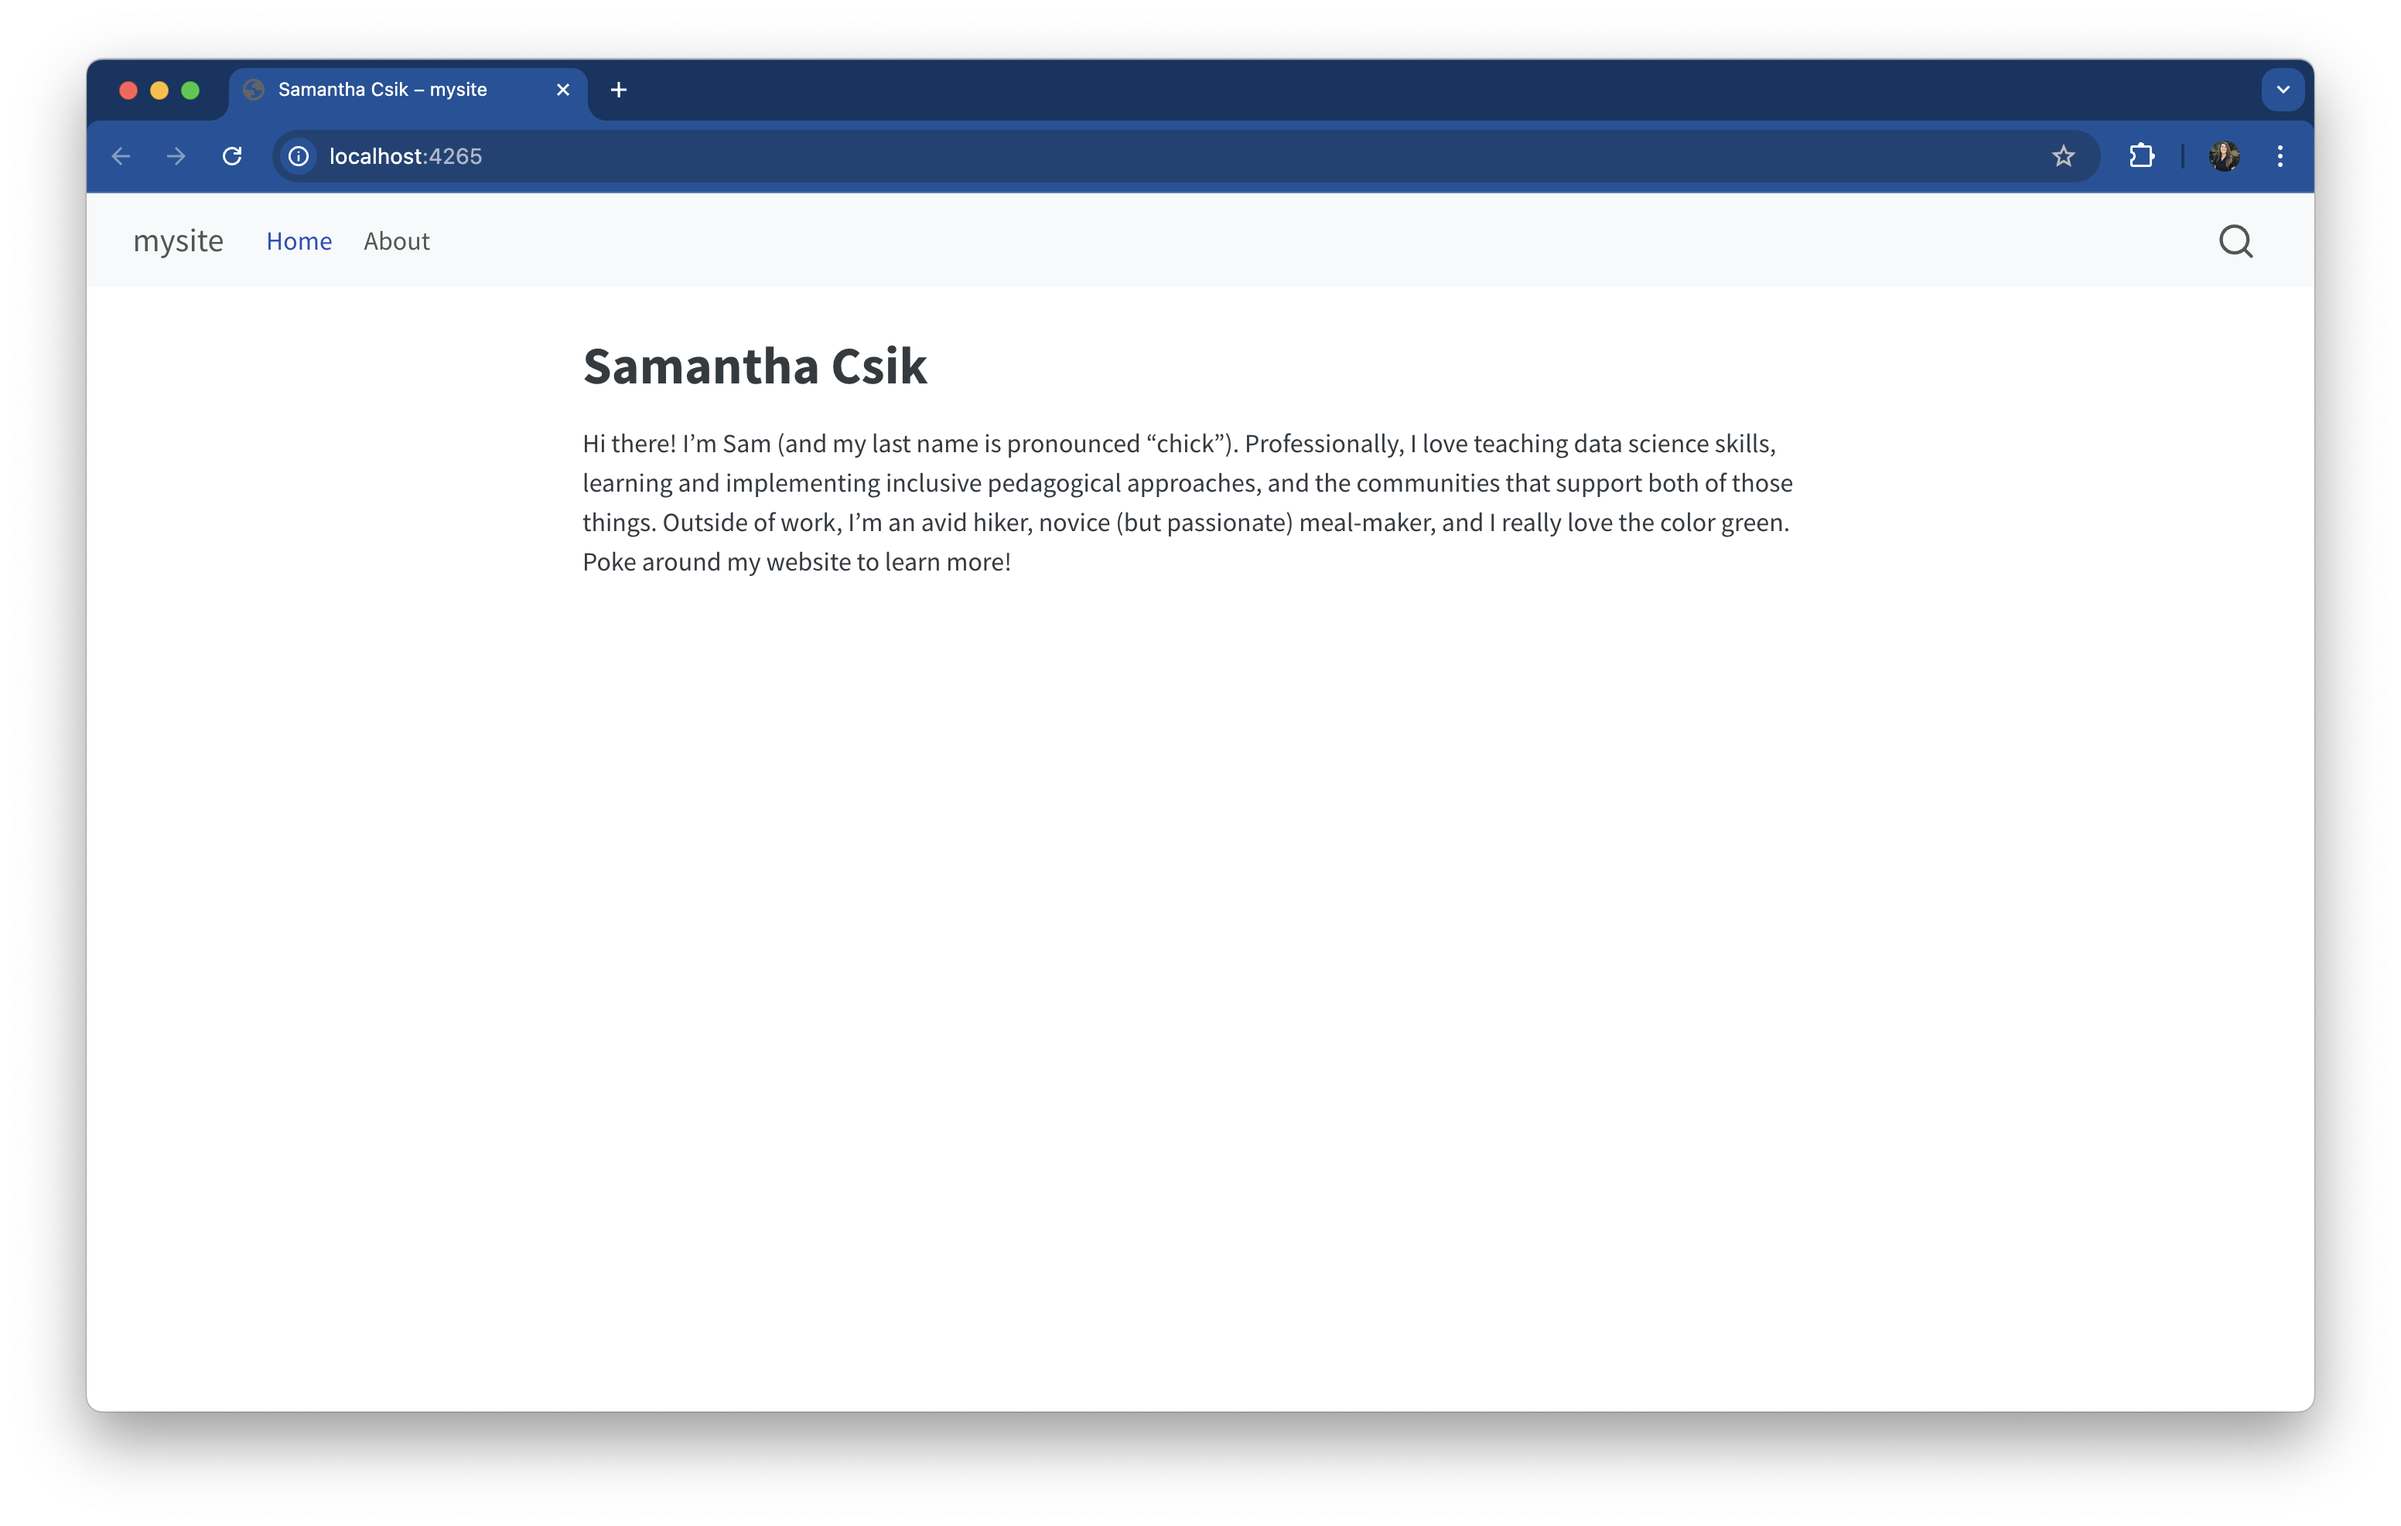
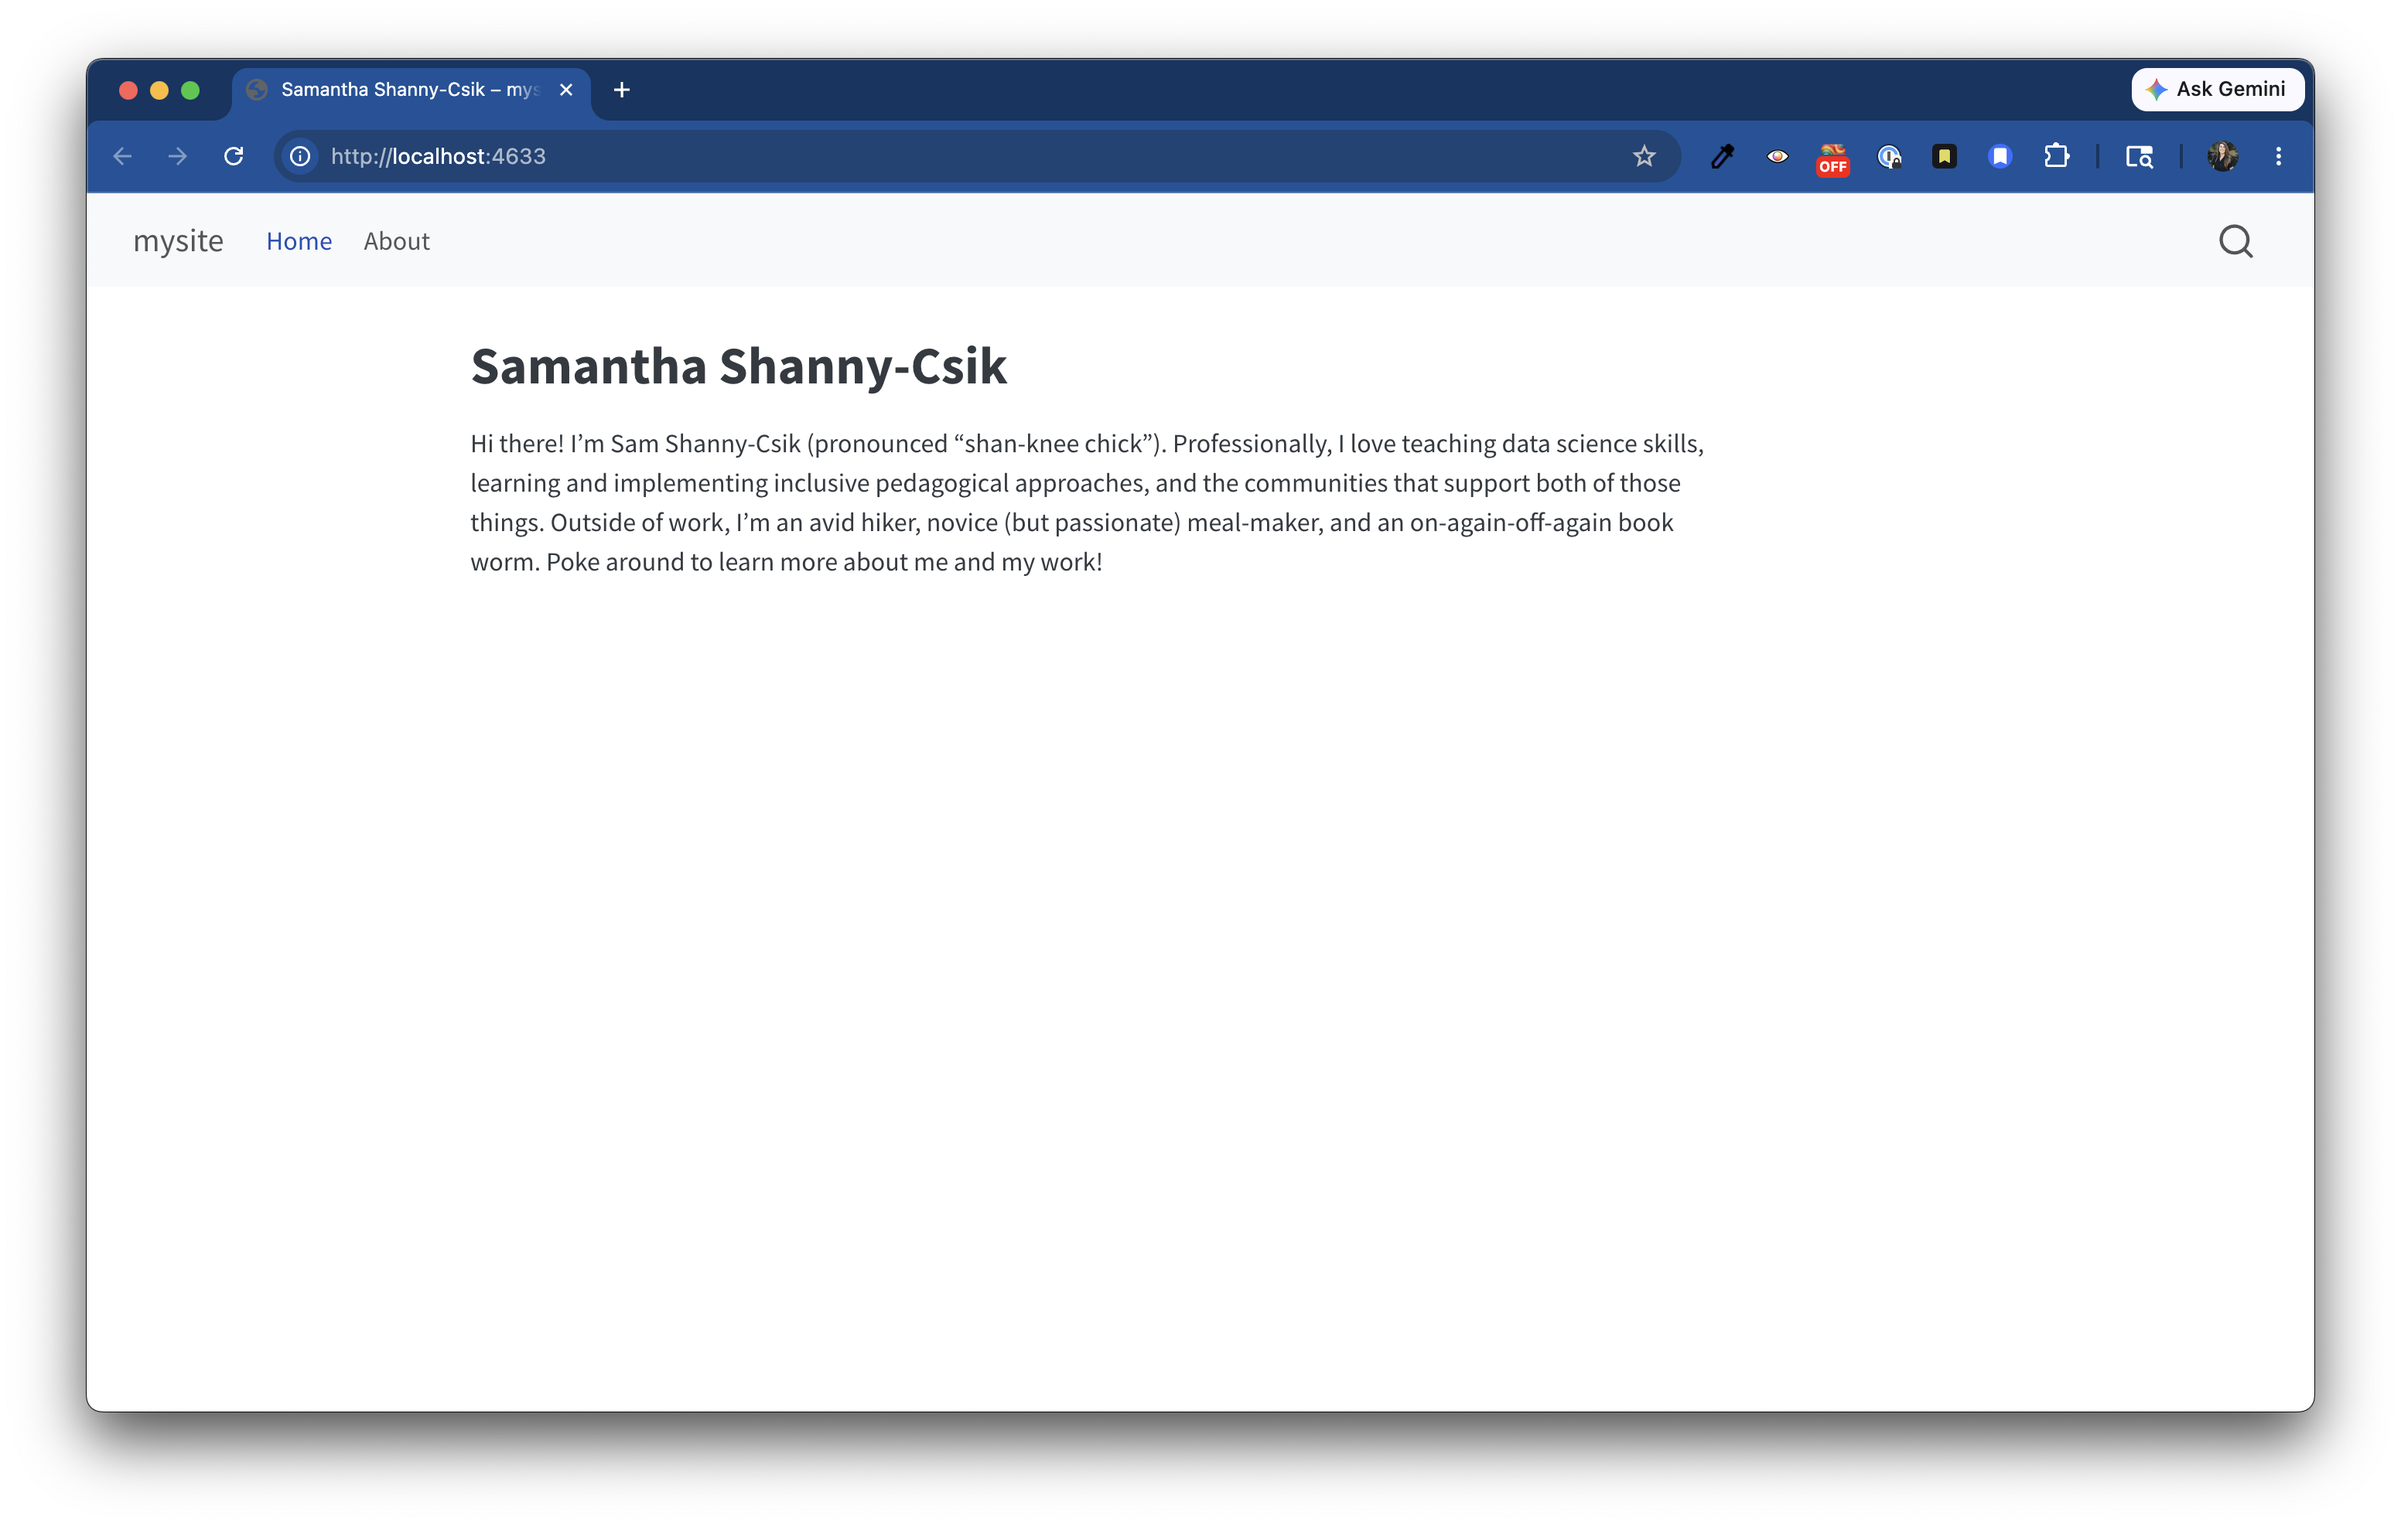
updated screenshots on my way to updating those used in customization workshop

diff --git a/index.html b/index.html
@@ -2463,7 +2463,7 @@ usethis::proj_set(".", force = TRUE)
 </div>
 <div id="callout-47" class="callout-47-contents callout-collapse collapse">
 <div class="callout-body-container callout-body">
-<p>Both RStudio and Positron will make updating your website a productive and fun experience. You choose!</p>
+<p>Both Positron and RStudio will make updating your website a productive and fun experience. You choose!</p>
 </div>
 </div>
 </div>
@@ -2488,7 +2488,7 @@ usethis::proj_set(".", force = TRUE)
 </div>
 <p><code>index.html</code> (which is built from <code>index.qmd</code>) is the page people will arrive at when navigating to your website – give this landing / home page a makeover by trying out some of the following:</p>
 <ul>
-<li><p>Update the YAML <code>title</code> in your <code>index.qmd</code> file. Here, I changed mine from <code>"mysite"</code> to my name, <code>"Samantha Csik"</code></p></li>
+<li><p>Update the YAML <code>title</code> in your <code>index.qmd</code> file. Here, I changed mine from <code>"mysite"</code> to my name, <code>"Samantha Shanny-Csik"</code></p></li>
 <li><p>Delete the sample text and begin adding your own content – a great place to start is a short blurb introducing yourself!</p></li>
 </ul>
 <div class="cell" data-layout-align="center">
@@ -2533,7 +2533,7 @@ usethis::proj_set(".", force = TRUE)
 <pre><strong>index.qmd</strong></pre>
 </div>
 <div class="code-copy-outer-scaffold"><div class="sourceCode cell-code" id="annotated-cell-3"><pre class="sourceCode r code-annotation-code code-with-copy code-annotated"><code class="sourceCode r"><span id="annotated-cell-3-1"><a href="#annotated-cell-3-1" aria-hidden="true" tabindex="-1"></a><span class="sc">---</span></span>
-<span id="annotated-cell-3-2"><a href="#annotated-cell-3-2" aria-hidden="true" tabindex="-1"></a>title<span class="sc">:</span> <span class="st">"Samantha Csik"</span></span>
+<span id="annotated-cell-3-2"><a href="#annotated-cell-3-2" aria-hidden="true" tabindex="-1"></a>title<span class="sc">:</span> <span class="st">"Samantha Shanny-Csik"</span></span>
 <a class="code-annotation-anchor" data-target-cell="annotated-cell-3" data-target-annotation="1" onclick="event.preventDefault();" href="">1</a><span id="annotated-cell-3-3" class="code-annotation-target"><a href="#annotated-cell-3-3" aria-hidden="true" tabindex="-1"></a>image<span class="sc">:</span> media<span class="sc">/</span>headshot.jpeg</span>
 <a class="code-annotation-anchor" data-target-cell="annotated-cell-3" data-target-annotation="2" onclick="event.preventDefault();" href="">2</a><span id="annotated-cell-3-4" class="code-annotation-target"><a href="#annotated-cell-3-4" aria-hidden="true" tabindex="-1"></a>toc<span class="sc">:</span> false</span>
 <span id="annotated-cell-3-5"><a href="#annotated-cell-3-5" aria-hidden="true" tabindex="-1"></a>about<span class="sc">:</span> </span>
@@ -2628,7 +2628,7 @@ usethis::proj_set(".", force = TRUE)
 <span id="annotated-cell-4-3"><a href="#annotated-cell-4-3" aria-hidden="true" tabindex="-1"></a><span class="at">  </span><span class="fu">output-dir</span><span class="kw">:</span><span class="at"> docs</span></span>
 <span id="annotated-cell-4-4"><a href="#annotated-cell-4-4" aria-hidden="true" tabindex="-1"></a></span>
 <span id="annotated-cell-4-5"><a href="#annotated-cell-4-5" aria-hidden="true" tabindex="-1"></a><span class="fu">website</span><span class="kw">:</span></span>
-<a class="code-annotation-anchor" data-target-cell="annotated-cell-4" data-target-annotation="1" onclick="event.preventDefault();" href="">1</a><span id="annotated-cell-4-6" class="code-annotation-target"><a href="#annotated-cell-4-6" aria-hidden="true" tabindex="-1"></a><span class="at">  </span><span class="fu">title</span><span class="kw">:</span><span class="at"> </span><span class="st">"Sam Csik"</span></span>
+<a class="code-annotation-anchor" data-target-cell="annotated-cell-4" data-target-annotation="1" onclick="event.preventDefault();" href="">1</a><span id="annotated-cell-4-6" class="code-annotation-target"><a href="#annotated-cell-4-6" aria-hidden="true" tabindex="-1"></a><span class="at">  </span><span class="fu">title</span><span class="kw">:</span><span class="at"> </span><span class="st">"Sam Shanny-Csik"</span></span>
 <span id="annotated-cell-4-7"><a href="#annotated-cell-4-7" aria-hidden="true" tabindex="-1"></a><span class="at">  </span><span class="fu">navbar</span><span class="kw">:</span></span>
 <span id="annotated-cell-4-8"><a href="#annotated-cell-4-8" aria-hidden="true" tabindex="-1"></a><span class="at">    </span><span class="fu">left</span><span class="kw">:</span></span>
 <span id="annotated-cell-4-9"><a href="#annotated-cell-4-9" aria-hidden="true" tabindex="-1"></a><span class="at">      </span><span class="kw">-</span><span class="at"> </span><span class="fu">href</span><span class="kw">:</span><span class="at"> index.qmd</span></span>
@@ -2683,7 +2683,7 @@ usethis::proj_set(".", force = TRUE)
 <div class="cell-output-display">
 <div class="quarto-figure quarto-figure-center">
 <figure class="figure">
-<p><img src="media/no-page-title.png" class="img-fluid quarto-figure quarto-figure-center figure-img" width="1552"></p>
+<p><img src="media/no-page-title.png" class="img-fluid quarto-figure quarto-figure-center figure-img" width="1508"></p>
 </figure>
 </div>
 </div>
@@ -2709,15 +2709,26 @@ usethis::proj_set(".", force = TRUE)
 <span id="cb52-3"><a href="#cb52-3" aria-hidden="true" tabindex="-1"></a><span class="sc">---</span></span></code></pre></div><button title="Copy to Clipboard" class="code-copy-button"><i class="bi"></i></button></div>
 </div>
 </div>
-<p>A quick reminder on how to add new files:</p>
+<div class="callout callout-style-default callout-note callout-titled">
+<div class="callout-header d-flex align-content-center collapsed" data-bs-toggle="collapse" data-bs-target=".callout-52-contents" aria-controls="callout-52" aria-expanded="false" aria-label="Toggle callout">
+<div class="callout-icon-container">
+<i class="callout-icon"></i>
+</div>
+<div class="callout-title-container flex-fill">
+<span class="screen-reader-only">Note</span>A quick reminder on how to add new files:
+</div>
+<div class="callout-btn-toggle d-inline-block border-0 py-1 ps-1 pe-0 float-end"><i class="callout-toggle"></i></div>
+</div>
+<div id="callout-52" class="callout-52-contents callout-collapse collapse">
+<div class="callout-body-container callout-body">
 <div class="tabset-margin-container"></div><div class="panel-tabset">
-<ul class="nav nav-tabs" role="tablist"><li class="nav-item" role="presentation"><a class="nav-link active" id="tabset-14-1-tab" data-bs-toggle="tab" data-bs-target="#tabset-14-1" role="tab" aria-controls="tabset-14-1" aria-selected="true" href=""><strong><i class="fa-brands fa-r-project" title="R programming language icon" aria-hidden="true"></i> RStudio GUI buttons</strong></a></li><li class="nav-item" role="presentation"><a class="nav-link" id="tabset-14-2-tab" data-bs-toggle="tab" data-bs-target="#tabset-14-2" role="tab" aria-controls="tabset-14-2" aria-selected="false" href=""><strong><i class="fa-solid fa-plus" title="plus sign" aria-hidden="true"></i> Positron GUI buttons</strong></a></li><li class="nav-item" role="presentation"><a class="nav-link" id="tabset-14-3-tab" data-bs-toggle="tab" data-bs-target="#tabset-14-3" role="tab" aria-controls="tabset-14-3" aria-selected="false" href=""><strong><i class="fa-solid fa-terminal" title="terminal symbol, |>" aria-hidden="true"></i> Command line / Terminal</strong></a></li></ul>
+<ul class="nav nav-tabs" role="tablist"><li class="nav-item" role="presentation"><a class="nav-link active" id="tabset-14-1-tab" data-bs-toggle="tab" data-bs-target="#tabset-14-1" role="tab" aria-controls="tabset-14-1" aria-selected="true" href=""><strong><i class="fa-solid fa-plus" title="plus sign" aria-hidden="true"></i> Positron GUI buttons</strong></a></li><li class="nav-item" role="presentation"><a class="nav-link" id="tabset-14-2-tab" data-bs-toggle="tab" data-bs-target="#tabset-14-2" role="tab" aria-controls="tabset-14-2" aria-selected="false" href=""><strong><i class="fa-brands fa-r-project" title="R programming language icon" aria-hidden="true"></i> RStudio GUI buttons</strong></a></li><li class="nav-item" role="presentation"><a class="nav-link" id="tabset-14-3-tab" data-bs-toggle="tab" data-bs-target="#tabset-14-3" role="tab" aria-controls="tabset-14-3" aria-selected="false" href=""><strong><i class="fa-solid fa-terminal" title="terminal symbol, |>" aria-hidden="true"></i> Command line / Terminal</strong></a></li></ul>
 <div class="tab-content">
 <div id="tabset-14-1" class="tab-pane active" role="tabpanel" aria-labelledby="tabset-14-1-tab">
-<p>From RStudio’s <strong>File pane</strong>, click <strong>Blank File</strong> &gt; <strong>Quarto Document</strong> &gt; give it a name (e.g.&nbsp;<code>resources.qmd</code> and save it to your project’s root directory</p>
+<p>From Posit’s <strong>Explorer</strong> menu, click the <strong>New File…</strong> button and give it a name with the <code>.qmd</code> extension (e.g.&nbsp;<code>resources.qmd</code>).</p>
 </div>
 <div id="tabset-14-2" class="tab-pane" role="tabpanel" aria-labelledby="tabset-14-2-tab">
-<p>From Posit’s <strong>Explorer</strong> menu, click the <strong>New File…</strong> button and give it a name with the <code>.qmd</code> extension (e.g.&nbsp;<code>resources.qmd</code>).</p>
+<p>From RStudio’s <strong>File pane</strong>, click <strong>Blank File</strong> &gt; <strong>Quarto Document</strong> &gt; give it a name (e.g.&nbsp;<code>resources.qmd</code> and save it to your project’s root directory)</p>
 </div>
 <div id="tabset-14-3" class="tab-pane" role="tabpanel" aria-labelledby="tabset-14-3-tab">
 <p>Use the <code>touch</code> command to create any file type from your RStudio or Positron Terminal:</p>
@@ -2727,6 +2738,9 @@ usethis::proj_set(".", force = TRUE)
 <pre><strong>Command line / Terminal</strong></pre>
 </div>
 <div class="code-copy-outer-scaffold"><div class="sourceCode cell-code" id="cb53"><pre class="sourceCode bash code-with-copy"><code class="sourceCode bash"><span id="cb53-1"><a href="#cb53-1" aria-hidden="true" tabindex="-1"></a><span class="fu">touch</span> resources.qmd</span></code></pre></div><button title="Copy to Clipboard" class="code-copy-button"><i class="bi"></i></button></div>
+</div>
+</div>
+</div>
 </div>
 </div>
 </div>
@@ -2744,7 +2758,7 @@ usethis::proj_set(".", force = TRUE)
 <span id="annotated-cell-6-3"><a href="#annotated-cell-6-3" aria-hidden="true" tabindex="-1"></a><span class="at">  </span><span class="fu">output-dir</span><span class="kw">:</span><span class="at"> docs</span></span>
 <span id="annotated-cell-6-4"><a href="#annotated-cell-6-4" aria-hidden="true" tabindex="-1"></a></span>
 <span id="annotated-cell-6-5"><a href="#annotated-cell-6-5" aria-hidden="true" tabindex="-1"></a><span class="fu">website</span><span class="kw">:</span></span>
-<span id="annotated-cell-6-6"><a href="#annotated-cell-6-6" aria-hidden="true" tabindex="-1"></a><span class="at">  </span><span class="fu">title</span><span class="kw">:</span><span class="at"> </span><span class="st">"Sam Csik"</span></span>
+<span id="annotated-cell-6-6"><a href="#annotated-cell-6-6" aria-hidden="true" tabindex="-1"></a><span class="at">  </span><span class="fu">title</span><span class="kw">:</span><span class="at"> </span><span class="st">"Sam Shanny-Csik"</span></span>
 <span id="annotated-cell-6-7"><a href="#annotated-cell-6-7" aria-hidden="true" tabindex="-1"></a><span class="at">  </span><span class="fu">navbar</span><span class="kw">:</span></span>
 <span id="annotated-cell-6-8"><a href="#annotated-cell-6-8" aria-hidden="true" tabindex="-1"></a><span class="at">   </span><span class="fu">left</span><span class="kw">:</span></span>
 <span id="annotated-cell-6-9"><a href="#annotated-cell-6-9" aria-hidden="true" tabindex="-1"></a><span class="at">     </span><span class="kw">-</span><span class="at"> </span><span class="fu">href</span><span class="kw">:</span><span class="at"> index.qmd</span></span>
